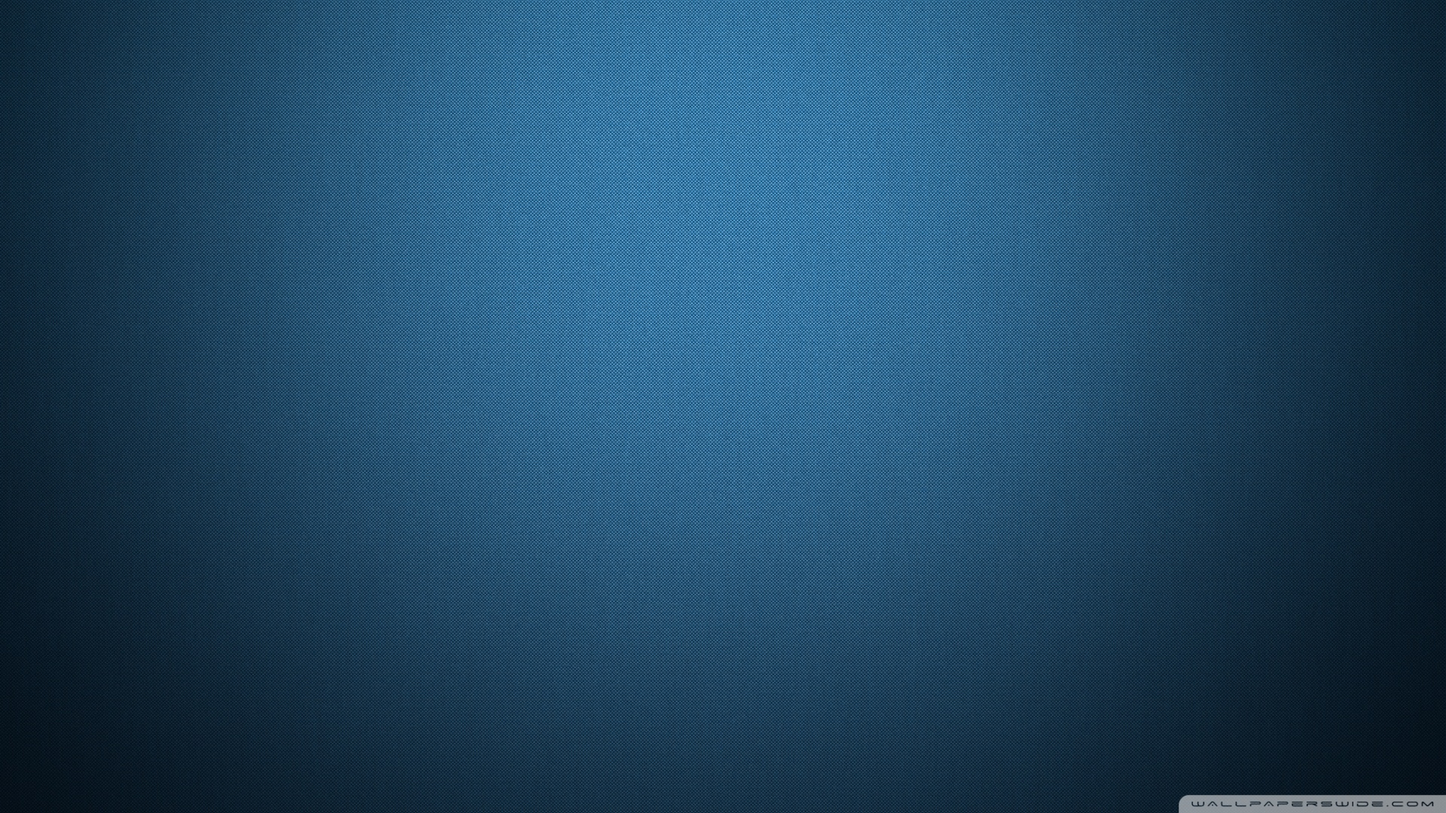
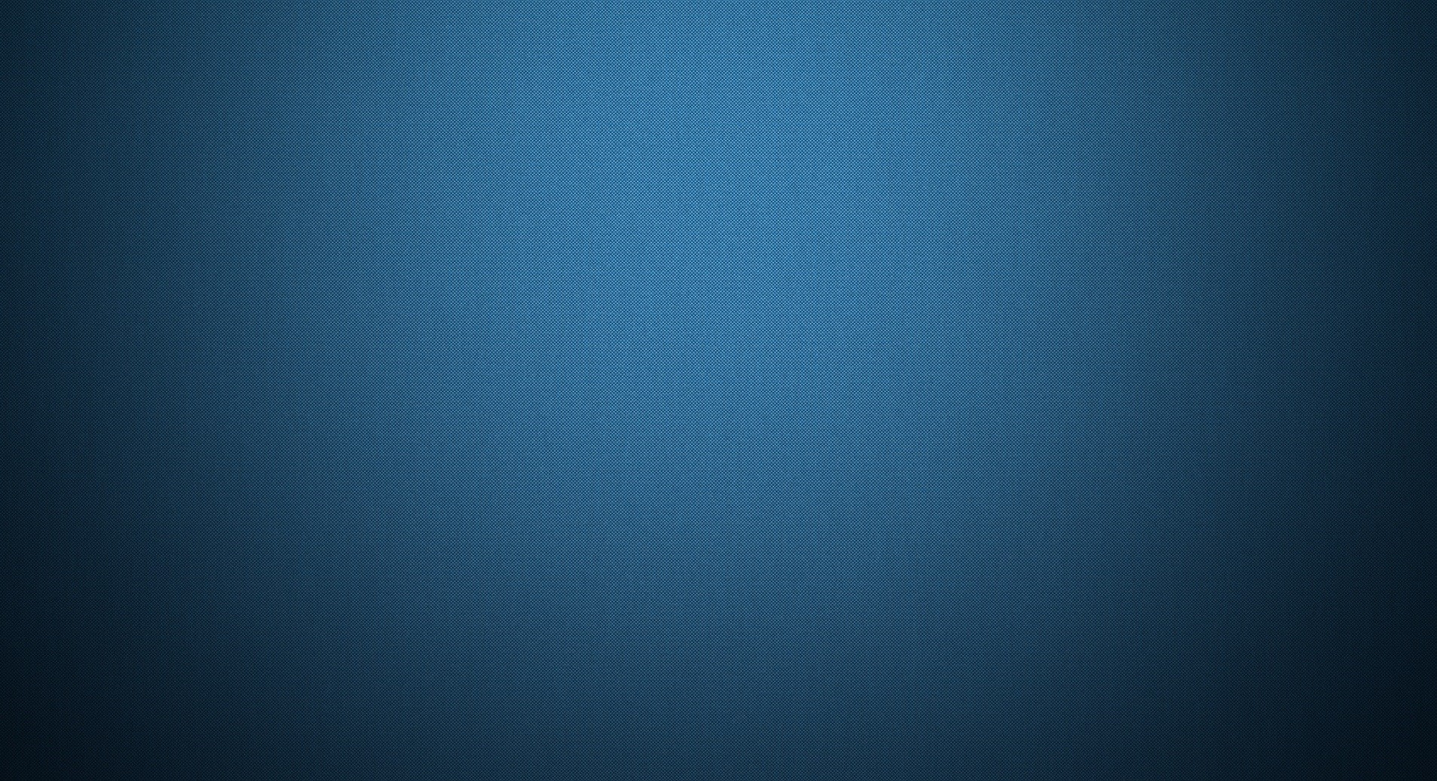
Site Update

Changed region(s): [[0.0618, 0.0, 0.9586, 1.0], [0.804, 0.9566, 1.0, 1.0], [0.2474, 0.9257, 0.2783, 0.9566]]

diff --git a/about.html b/about.html
@@ -1,62 +1,153 @@
 <!DOCTYPE html>
-<html lang="en">
+<html lang="en" dir="ltr">
 
-	<head>
-		<title>REDOC | PROG | SaurabhSk</title>
-		<meta charset="UTF-8">
-		<meta name="viewport" content="width=device-width, initial-scale=1">
-		<link href='css\mycss.css' rel='stylesheet'/>
-	</head>
+  <head>
+    <meta charset="utf-8">
+    <meta name="viewport" content="width=device-width, initial-scale=1.0">
+    <title>Statlearn Tech | About</title>
+    <link rel="stylesheet" href="css/style.css">
+    <link rel="stylesheet" href="https://cdn.jsdelivr.net/npm/bootstrap@4.6.0/dist/css/bootstrap.min.css" integrity="sha384-B0vP5xmATw1+K9KRQjQERJvTumQW0nPEzvF6L/Z6nronJ3oUOFUFpCjEUQouq2+l" crossorigin="anonymous">
+  </head>
 
-<body>
-	<div class='header'>
-		<span class='topName'>Saurabh Kumar Giri</span>	
-	</div>
-	<hr/>
-	
-				
-	
+  <body>
 
-		<div> 	
-			<a href='index.html'><button class='topMenu'>Home</button></a>
-			<a href='blogs.html'><button class='topMenu'>Blogs</button></a>
-			<a href='projects.html'><button class='topMenu'>Projects</button></a>
-			<a href='https://goo.gl/forms/WPKEX9kzgvSHWwnr2'><button class='topMenu'>Feedback</button></a>
-			<a href='about.html'><button class='active'>About Me</button></a>
-		</div>
-		<br/>
-		<br/>
-		
-		<div class='aboutouter'>
-			
-			
-			
-			<!--<img src="img/bg4.jpg" height='350px' class='aboutinner'/>-->
-			<div class='aboutinnerr'>
-				<span class='topNamee'>Education</span>
-				<p class='det'>I'm a Computer Science student currently pursuing B.Tech(2015-19) programme. </p>
-				<p class='det'>I have working knowledge of Java, Python, Android App Developemet, Web Developement, Database Management specifically in MySql.</p>
-				<p class='det'>Though i started with Java, Python is my favorite language</p>
-				<span class='topNamee'>More..</span>
-				<p class='det'> Most of the time i love sports coding, playing online games(Pubg -- don't be surprised if you find me Online). 
-					<br/>
-					<br/>
-					I aim to be a software developer and freelancer. you heard it right, a Freelancer (you yourself can consider me for your next project)
-				</p>
-				<span class='topNamee'>Ping Me</span>
-				<p class='det'>
-					Here at Github <br/><br/>
-					Insta : saurabhsk.giri <br/><br/>
-					mail : skgvns8789@gmail.com <br/><br/>
-					LinkedIn : Shwaubh
-				</p>
-				
-			</div>
-			
-		</div>
-		
-		
-</body>
+    <div class="jumbotron m-1 p-1 bg-dark text-white">
+      <h1>
+        <a href="index.html" class="text-white">Saurabh Kumar Giri</a>
+      </h1>
+      <p>Aspirant : Data Scientist<br>
+      </p>
+    </div>
+
+    <div class="container">
+      <div class="row">
+        <div class="col-md-4 bg-light text-center">
+          <img alt="Profile" src="img/profile.jpg" class="rounded-circle" width="304" height="236">
+        </div>
+        <div class="col-md-8 bg-info">
+          <h4>About Me | A short description</h4>
+          <p>
+            I am fond of creative coding, building softwares, data analysis and problem solving using Computer Programming.
+            Apart from being a Qualified Engineer, I am a Experienced Software Professional with around 2 years of
+            demonstrated history of working in the information technology and services industry.
+            <hr>
+            Other hobbies are<br>
+              : YouTube Tech Content Creator<br>
+              : Gaming<br>
+              : Basketball
+          </p>
+        </div>
+      </div>
+      <div class="row text-white">
+        <div class="col-md-12 bg-secondary h-100 text-center">
+          <h3>Tech Stack</h3>
+
+          <h6 class="text-left">Programming langauges</h6>
+          <div class="progress m-1" style="height:32px;">
+            <div class="progress-bar bg-success text-dark" style="width:55%">
+                <b>Python</b>
+            </div>
+            <div class="progress-bar bg-warning text-dark" style="width:35%">
+              <b>Java</b>
+            </div>
+            <div class="progress-bar bg-danger" style="width:10%">
+              <b>C</b>
+            </div>
+          </div>
+
+          <h6 class="text-left">Database Query langauges | Tools | Techniques</h6>
+          <div class="progress m-1" style="height:32px;">
+            <div class="progress-bar bg-success text-dark" style="width:55%">
+                <b>SQL</b>
+            </div>
+            <div class="progress-bar bg-warning text-dark" style="width:35%">
+              <b>MySQL</b>
+            </div>
+            <div class="progress-bar bg-danger" style="width:10%">
+              <b>ORM</b>
+            </div>
+          </div>
+
+          <h6 class="text-left">Web Tools | Technologies</h6>
+          <div class="progress m-1" style="height:32px;">
+            <div class="progress-bar bg-warning text-dark border" style="width:25%">
+                <b>HTML</b>
+            </div>
+            <div class="progress-bar bg-warning text-dark border" style="width:20%">
+              <b>CSS</b>
+            </div>
+            <div class="progress-bar bg-danger border" style="width:15%">
+              <b>JavaScript</b>
+            </div>
+            <div class="progress-bar bg-danger border" style="width:10%">
+              <b>Bootstrap</b>
+            </div>
+            <div class="progress-bar bg-danger border" style="width:10%">
+              <b>JSON</b>
+            </div>
+            <div class="progress-bar bg-info border" style="width:30%">
+              <b>Lot to Learn More....</b>
+            </div>
+          </div>
+
+          <h6 class="text-left">Web Frameworks and Backend Development</h6>
+          <div class="progress m-1" style="height:32px;">
+            <div class="progress-bar bg-success text-dark border" style="width:30%">
+                <b>Django</b>
+            </div>
+            <div class="progress-bar bg-warning text-dark border" style="width:30%">
+              <b>Android App Development using Java and XML</b>
+            </div>
+            <div class="progress-bar bg-warning text-dark border" style="width:15%">
+              <b>Servlets | JSP</b>
+            </div>
+            <div class="progress-bar bg-danger border" style="width:10%">
+              <b>REST</b>
+            </div>
+            <div class="progress-bar bg-danger border" style="width:15%">
+              <b>Firebase</b>
+            </div>
+          </div>
+
+          <h6 class="text-left">Data Science Tools | Libraries</h6>
+          <div class="progress m-1" style="height:32px;">
+            <div class="progress-bar bg-success text-dark border" style="width:20%">
+                <b>NumPy</b>
+            </div>
+            <div class="progress-bar bg-success text-dark border" style="width:20%">
+              <b>Pandas</b>
+            </div>
+            <div class="progress-bar bg-warning text-dark border" style="width:15%">
+              <b>Matplotlib</b>
+            </div>
+            <div class="progress-bar bg-danger border" style="width:10%">
+              <b>Seaborn</b>
+            </div>
+            <div class="progress-bar bg-danger border" style="width:15%">
+              <b>Sklearn</b>
+            </div>
+            <div class="progress-bar bg-danger border" style="width:10%">
+              <b>Excel</b>
+            </div>
+            <div class="progress-bar bg-danger border" style="width:10%">
+              <b>Tableau</b>
+            </div>
+          </div>
+
+
+        </div>
+        <footer class="bg-light m-3 text-dark op-5">
+            <b>
+            Proficiency Level of above Skills are depicted by the width and color.
+            <hr>
+            </b>
+            <span class="text-success">Green  : Highly Skilled</span> <br/>
+            <span class="text-warning">Yellow : Skilled </span> <br/>
+            <span class="text-danger">Red    : Working Knowledge </span> <br/>
+        <footer>
+      </div>
+    </div>
+
+  </body>
 
 </html>
-

diff --git a/index.html b/index.html
@@ -1,41 +1,57 @@
 <!DOCTYPE html>
-<html lang="en">
+<html lang="en" dir="ltr">
 
-	<head>
-		<title>REDOC | PROG | SaurabhSk</title>
-		<meta charset="UTF-8">
-		<meta name="viewport" content="width=device-width, initial-scale=1">
-		<link href='css\mycss.css' rel='stylesheet'/>
-	</head>
+  <head>
+    <meta charset="utf-8">
+    <meta name="viewport" content="width=device-width, initial-scale=1.0">
+    <title>Statlearn Tech | Programmer | Statistician</title>
+    <link rel="stylesheet" href="css/style.css">
+    <link rel="stylesheet" href="https://cdn.jsdelivr.net/npm/bootstrap@4.6.0/dist/css/bootstrap.min.css" integrity="sha384-B0vP5xmATw1+K9KRQjQERJvTumQW0nPEzvF6L/Z6nronJ3oUOFUFpCjEUQouq2+l" crossorigin="anonymous">
+  </head>
 
-<body>
-	<div class='header'>
-		<span class='topName'>Saurabh Kumar Giri</span>	
-	</div>
-	<hr/>
-	
-		<div> 	
-			<a href='index.html'><button class='active'>Home</button></a>
-			<a href='blogs.html'><button class='topMenu'>Blogs</button></a>
-			<a href='projects.html'><button class='topMenu'>Projects</button></a>
-			<a href='https://goo.gl/forms/WPKEX9kzgvSHWwnr2'><button class='topMenu'>Feedback</button></a>
-			<a href='about.html'><button class='topMenu'>About Me</button></a>
-		</div>
-		
-		<div class='motivate'>
-			You only fail when you quit <br/>
-			<hr style="width : 20px;"/>
-			SaurabhSK
-			<br/>
-			Software Developer | Programmer | Gamer
-		</div>
-		<div class='footer'>
-		
-		</div>
-		
-		
-		
-</body>
+  <body>
+
+    <div class="jumbotron m-1 p-1 bg-dark text-white">
+      <h1>Welcome to Statlearn Tech</h1>
+      <p>Here you get to know a lot about <br>
+        <ul class="list-group list-group-horizontal">
+          <a href="about.html" class="text-white"><li class="list-group-item bg-dark">Saurabh Giri</li></a>
+          <a href="#" class="text-white"><li class="list-group-item bg-dark">Programming</li></a>
+        </ul>
+        <ul class="list-group list-group-horizontal">
+          <a href="#" class="text-white"><li class="list-group-item bg-dark">Tech-Blog</li></a>
+          <a href="#" class="text-white"><li class="list-group-item bg-dark">Projects/Portfolio</li></a>
+        </ul>
+        <ul class="list-group list-group-horizontal">
+          <a href="#" class="text-white"><li class="list-group-item bg-dark">Statistics</li></a>
+          <a href="#" class="text-white"><li class="list-group-item bg-dark">Interesting Photos</li></a>
+        <ul>
+      </p>
+    </div>
+
+    <div class="container">
+      <div class="card">
+        <div class="card-header">
+          <h4 class="card-title">Saurabh Kumar Giri</h4>
+        </div>
+        <div class="card-body">
+          <p class="card-text">
+            I am fond of Data, its analysis and of course Programming.
+            At the top of the page, you will find many interesting links. Go there and get explored about me.
+          </p>
+          <p class="card-text"></p>
+          <a href="https://www.linkedin.com/in/shwaubh/" class="card-link" target="_blank">LinkedIn</a><br/>
+          <a href="https://github.com/Shwaubh/" class="card-link" target="_blank">Github</a><br/>
+          <a href="https://www.instagram.com/saurabhgiri.sk/" class="card-link" target="_blank">Instagram</a><br/>
+          <a href="https://www.hackerrank.com/SHWAUBH" class="card-link" target="_blank">HackerRank</a><br/>
+          <a href="https://www.kaggle.com/shwaubh/" class="card-link" target="_blank">Kaggle</a>
+        </div>
+        <div class="card-footer">
+          <h6 class="card-text">Feel free to Contact if required.</h6>
+        </div>
+      </div>
+    </div>
+
+  </body>
 
 </html>
-

diff --git a/css/style.css b/css/style.css
@@ -1,0 +1,9 @@
+body {
+ background: url("../img/bg1.jpg");
+ background-size: stretch;
+}
+
+.op-5
+{
+  opacity: 0.5;
+}
